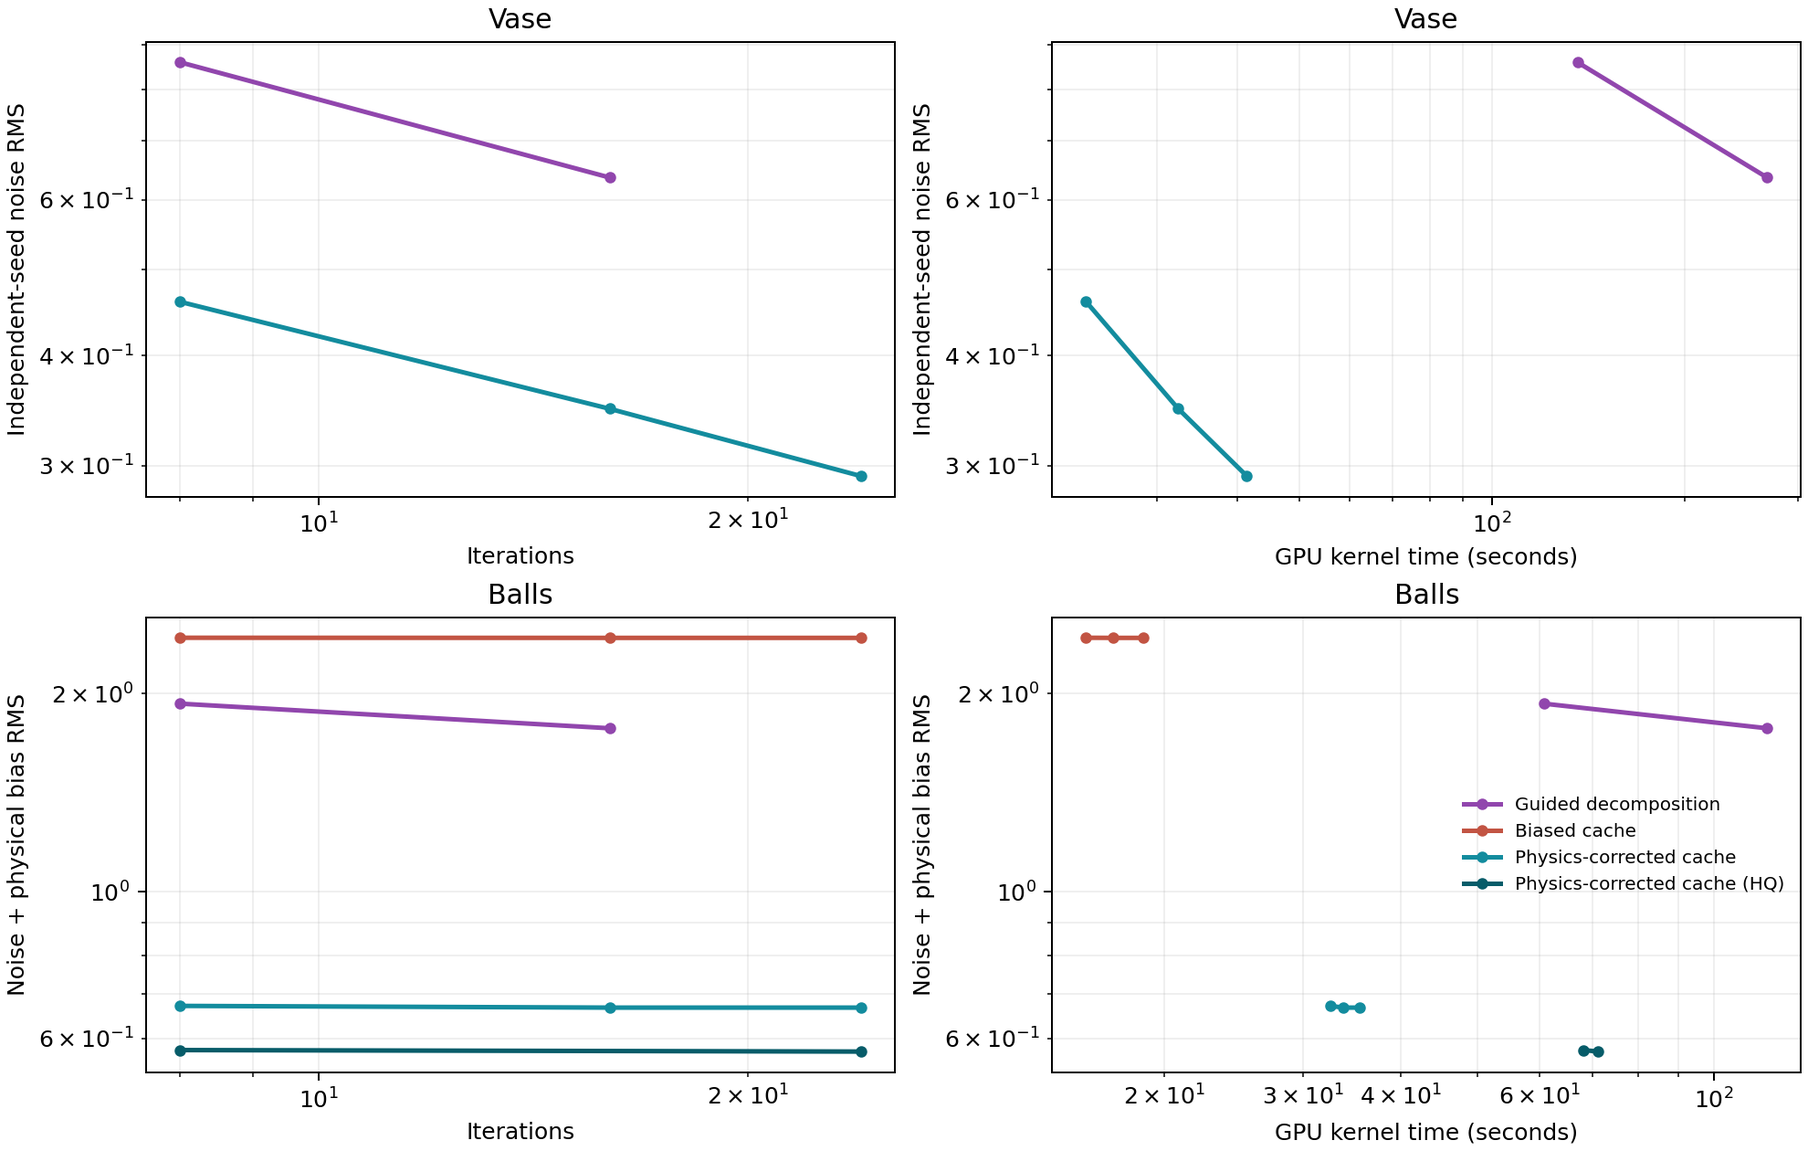
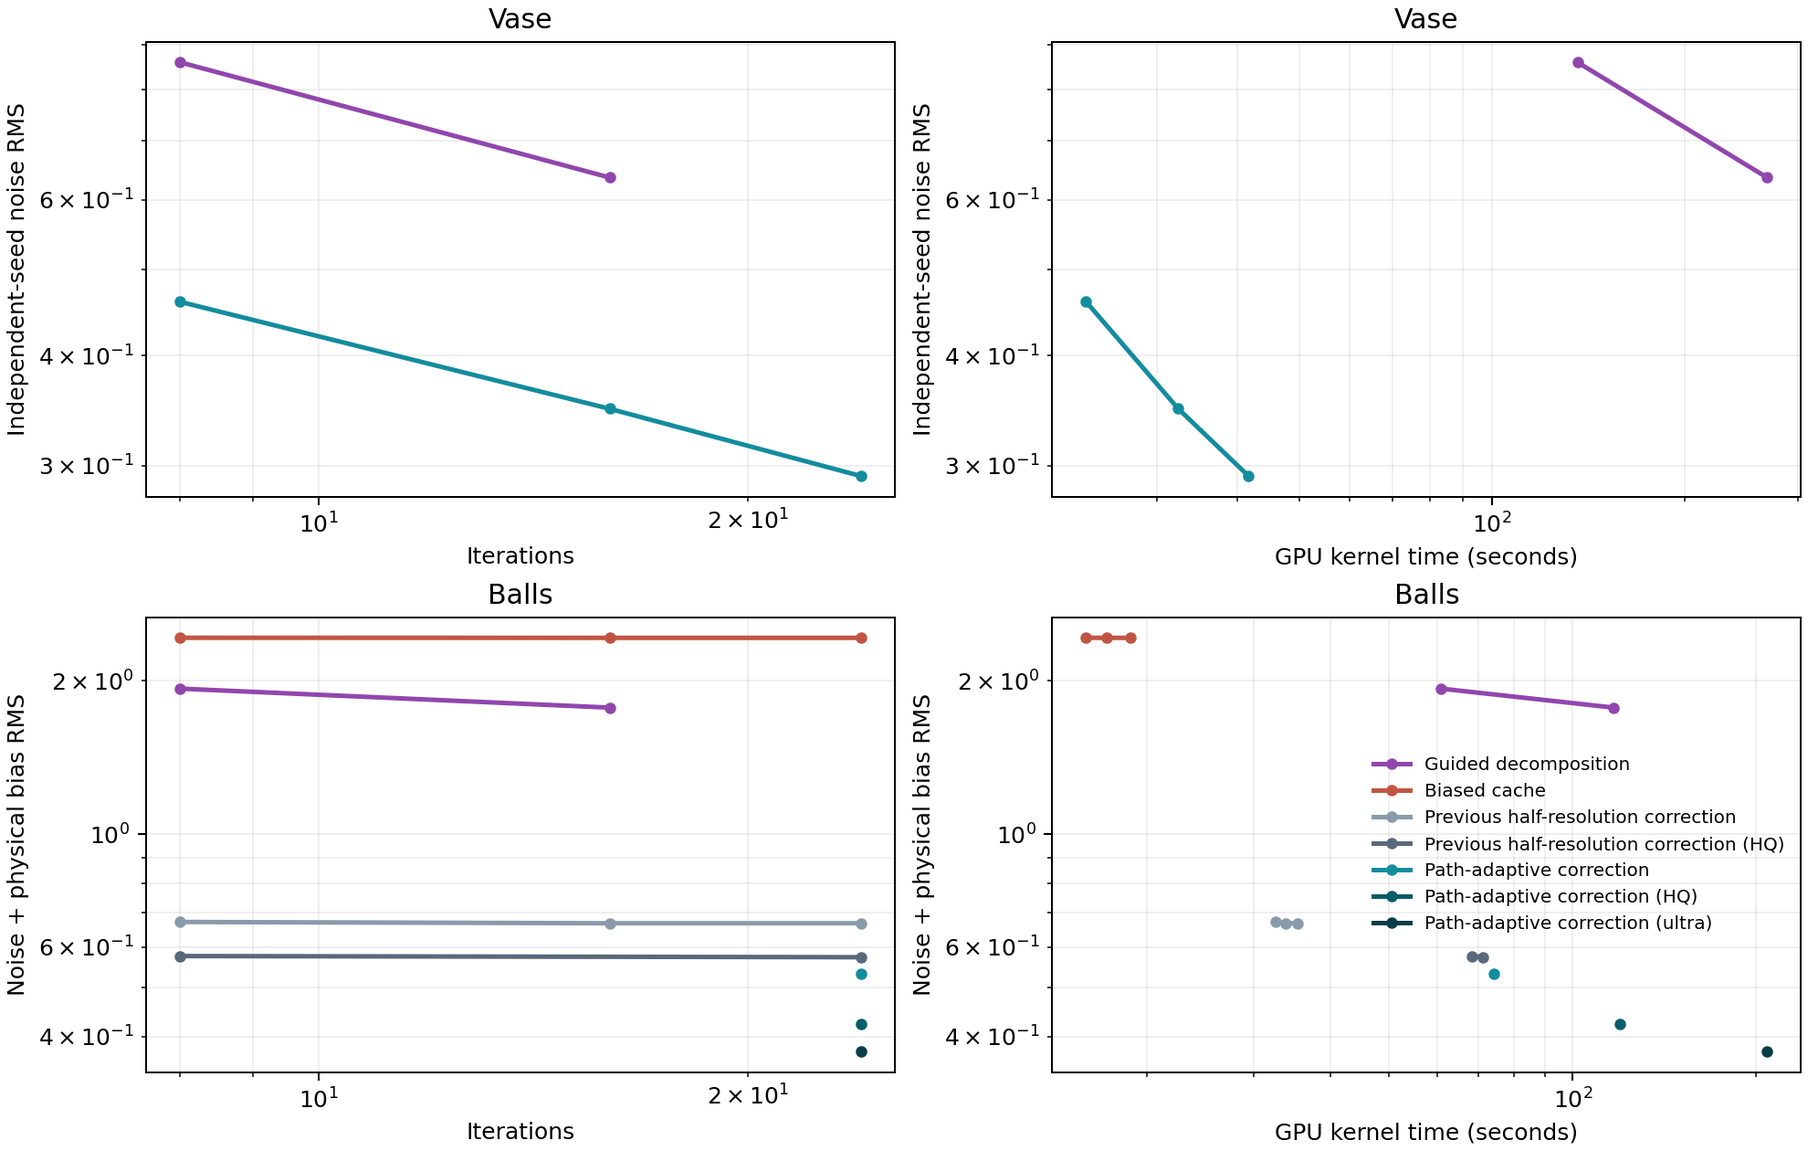
Generalize 4K path-adaptive SPPM bias correction

diff --git a/hw2/sppm/benchmark.py b/hw2/sppm/benchmark.py
@@ -26,7 +26,7 @@ REGIONS = {
 
 def run_job(job, options, directory):
     scene, algorithm, iterations, seed, gpu = job
-    cached = algorithm in ("cache", "cache_hq")
+    cached = algorithm in ("cache", "cache_hq", "cache_ultra")
     label = f"{scene}-{algorithm}-i{iterations:03d}-s{seed}"
     image = directory / f"{label}.ppm"
     command = [str(options.binary), str(options.width), str(options.height), str(image)]
@@ -38,10 +38,11 @@ def run_job(job, options, directory):
             photons = "16" if scene == "vase" else "10" if iterations <= 8 else "8"
         command += [str(iterations), photons, ".5", "1"]
     command += ["--scene", scene, "--nearest", "--seed", str(seed)]
-    if algorithm in ("hybrid", "reuse", "guided", "cache", "cache_hq"):
+    if algorithm in ("hybrid", "reuse", "guided") or cached:
         samples = iterations * 16
         if cached and options.width >= 1920:
-            samples = (576 if algorithm == "cache_hq" else 192) if scene == "balls" else 64
+            samples = ({"cache": 192, "cache_hq": 576, "cache_ultra": 1536}[algorithm]
+                       if scene == "balls" else 64)
         command += ["--hybrid-samples", str(samples), "--reconstruction-radius",
                     "4" if scene == "vase" or cached and options.width >= 1920 else "8"]
     if algorithm == "reuse":
@@ -133,11 +134,15 @@ def plot(summaries, destination):
 
     colors = {"pt": "#d15f4a", "sppm": "#c79a35", "hybrid": "#657bc2", "reuse": "#2b9e77",
               "guided": "#9146ad", "cache_blur": "#c78145", "cache_legacy": "#c25443",
-              "cache": "#138c9e", "cache_hq": "#075c69"}
+              "cache_previous": "#899aab", "cache_previous_hq": "#58697c",
+              "cache": "#138c9e", "cache_hq": "#075c69", "cache_ultra": "#083d47"}
     names = {"pt": "Path tracing", "sppm": "SPPM", "hybrid": "Hybrid SPPM",
              "reuse": "Stratified reuse", "guided": "Guided decomposition",
              "cache_blur": "Previous over-smoothed cache", "cache_legacy": "Biased cache",
-             "cache": "Physics-corrected cache", "cache_hq": "Physics-corrected cache (HQ)"}
+             "cache_previous": "Previous half-resolution correction",
+             "cache_previous_hq": "Previous half-resolution correction (HQ)",
+             "cache": "Path-adaptive correction", "cache_hq": "Path-adaptive correction (HQ)",
+             "cache_ultra": "Path-adaptive correction (ultra)"}
     figure, axes = plt.subplots(2, 2, figsize=(11, 7), constrained_layout=True)
     for row, scene in enumerate(("vase", "balls")):
         metric = "total_error" if any(item["scene"] == scene and "total_error" in item

diff --git a/README.md b/README.md
@@ -43,7 +43,7 @@ OpenMP: 2, GPU: 5
 其他额外效果: 凹凸贴图、体积光等: [5, ?]
 ```
 
-代码基于 smallpt，实现路径追踪（PT）、随机渐进式光子映射（SPPM）、CUDA Hybrid SPPM、分层复用 Hybrid SPPM、低差异 Guided Hybrid SPPM，以及面向原生 4K 的物理纠偏辐照度缓存。原始花瓶场景与原 `balls` 分支的玻璃球场景都在 `master`，通过 `--scene vase` / `--scene balls` 直接切换。旋转 Bezier 曲面、彩色纹理、镜面反射、玻璃折射和光源构图均保留原始设定。课程报告见 [hw2/report.pdf](hw2/report.pdf)。
+代码基于 smallpt，实现路径追踪（PT）、随机渐进式光子映射（SPPM）、CUDA Hybrid SPPM、分层复用 Hybrid SPPM、低差异 Guided Hybrid SPPM，以及面向原生 4K 的路径统计自适应纠偏缓存。原始花瓶场景与原 `balls` 分支的玻璃球场景都在 `master`，通过 `--scene vase` / `--scene balls` 直接切换。旋转 Bezier 曲面、彩色纹理、镜面反射、玻璃折射和光源构图均保留原始设定。课程报告见 [hw2/report.pdf](hw2/report.pdf)。
 
 ### 直接渲染结果
 
@@ -55,7 +55,7 @@ OpenMP: 2, GPU: 5
 
 **Balls：**
 
-![Balls 场景：原生 4K 物理纠偏辐照度缓存直接渲染](docs/render/balls-cache-4k.png)
+![Balls 场景：原生 4K 路径统计自适应纠偏缓存直接渲染](docs/render/balls-cache-4k.png)
 
 ### 新算法：Guided Hybrid SPPM
 
@@ -85,22 +85,25 @@ $$L_o = L_{\mathrm{diffuse,SPPM}} + L_{\mathrm{specular,PT}} + L_{\mathrm{direct
 
 光源是否外露、低差异序列以及 Russian roulette 生存概率都由场景几何和材质自动决定，不识别特定场景名称、固定颜色或贴图文件。constant memory、可见对象 bitmask、把大球近似成平面，以及对玻璃分支强行分层也都做过实测，但分别造成访存串行化、额外同步或方差升高，因此没有放进最终实现。
 
-#### 原生 4K：物理纠偏辐照度缓存
+#### 原生 4K：路径统计自适应纠偏缓存
 
 把原来的 `--guided` 直接从 640×360 提升到 3840×2160 后，16 轮花瓶需要 268.420 s，综合 RMS 仍为 0.636；balls 需要 116.867 s，RMS 为 0.723。瓶颈不是 GPU 光线投射不够快，而是固定世界坐标光子半径和固定每像素光子数同时沿用：像素数增加时，每个光子覆盖的相机可见点也增加，光子汇合成本接近 $N_{\mathrm{photon}}N_{\mathrm{visible}}r^2$，远比像素数增长得更快。
 
-`--cache` 在 Guided Hybrid 的物理传输分解之上增加六个变化：
+`--cache` 在 Guided Hybrid 的物理传输分解之上增加八个变化：
 
 1. **按分辨率控制光子支持域。** 令 $s=\min(1,\sqrt{640\cdot360/(WH)})$，自动使用 $r'=r\max(0.24,s)$、$\rho'=\rho s$，避免高分辨率下对同一世界坐标邻域做二次增长的重复查询。
-2. **把混合 BSDF 明确拆成两个估计量。** 漫反射分支交给 SPPM，并乘以 $1-p_{\mathrm{specular}}$；镜面分支由独立相机路径估计，再乘回 $p_{\mathrm{specular}}$。对于光源被玻璃包裹的焦散场景，大范围缓存必须放在镜面和折射合成之前，合成后只允许跨度不超过 2 像素的局部复用；否则地板倒影和玻璃内部反射会被错误平均成发光特效。
-3. **缓存可复用的辐照度，而不是直接糊 RGB。** 先除掉纹理反照率，再用跨度为 1、2、4、8……像素的几何约束 à-trous 层级复用漫反射照明，最后恢复原像素纹理。物体 ID、法线、世界平面距离、反照率、材质类型和亮度差异共同限制复用；焦散场景提高亮度差异惩罚，有镜面高光的黑色条纹像素直接绕过缓存。
-4. **把可确定部分从随机变量里拿掉。** 针孔相机使用稳定的分层子像素位置，面积光直接连接使用逐像素确定性低差异序列；开启真实光圈时仍保留随机透镜采样。光子和玻璃路径继续使用独立随机种子，不把实际采样方差藏进固定序列。
-5. **按光源可见性分配缓存尺度和采样预算。** 外露面积光场景可以使用更宽的漫反射辐照度 footprint；被玻璃包住的光源自动切换到“先漫反射、后镜面”的保真模式。透明玻璃使用 192–576 个相机路径样本，带条纹遮罩的球体保留原始随机 BSDF，不再套用会改变球面条纹亮度的缓存专用选择器。核心判断来自场景几何、材质和光源遮挡，不依赖 `vase`、`balls` 等场景名称。
-6. **用无偏路径追踪直接纠正缓存造成的低频偏差。** 对被遮挡的多光源场景，另外在半分辨率上运行随机化低差异 PT：漫反射的前两个方向变量使用独立 Cranley–Patterson 旋转，混合 BSDF 保留真实概率和权重。在线性辐亮度空间计算 $P_{l}-\mathcal{D}(C_{h})$，其中 $P_l$ 是粗尺度 PT、$C_h$ 是高分辨率缓存、$\mathcal D$ 是同一物体与法线约束的局部平均；再按物体、法线、平面距离和光照梯度把残差加回高分辨率：
+2. **把混合 BSDF 明确拆成两个估计量。** 漫反射分支交给 SPPM，并乘以 $1-p_{\mathrm{specular}}$；镜面分支由独立相机路径估计，再乘回 $p_{\mathrm{specular}}$。大范围照度缓存尽量放在方向性光路合成之前；方向性分量只允许与实际几何和路径行为相容的近邻复用。
+3. **缓存可复用的辐照度，而不是直接糊 RGB。** 先除掉纹理反照率，再用跨度为 1、2、4、8……像素的几何约束 à-trous 层级复用漫反射照明，最后恢复原像素纹理。物体 ID、法线、世界平面距离、反照率和实际辐亮度差异共同限制复用，不根据固定 RGB 值判断像素是不是高光。
+4. **根据实际光路判断是否值得复用。** 每个像素先用独立 pilot 测量路径亮度、方差以及镜面/折射事件的出现频率。稳定、方向性弱的像素直接保留本像素结果；稀有方向事件多、采样方差大的像素才进行受几何约束的复用。阈值从 0.05 扫到 0.50 时 4K 结果保持一致，不依赖场景名、球的位置、贴图文件或预设颜色。
+5. **pilot 只决定预算，不参与最终估计。** 最终镜面和折射颜色重新使用一批独立路径计算，避免“先看 pilot 决定停止，再把同一批 pilot 拿来平均”的 optional-stopping 偏差。带贴图遮罩的材质和普通玻璃共享用户指定的 `--hybrid-samples`，不再存在偷偷的 64-sample 上限。
+6. **在原生像素分辨率纠正缓存偏差。** 当 `--hybrid-samples >= 128` 时，每个漫反射像素单独生成随机化低差异 PT 样本，在同一个原生 4K 像素位置计算线性辐亮度残差 $P_h-C_h$；再根据几何、法线、平面距离和实际辐亮度差异复用相容残差：
 
-$$\hat L_h=C_h+\mathcal U_{\mathrm{geometry}}\!\left[P_l-\mathcal D(C_h)\right].$$
+$$\hat L_h=C_h+\mathcal U_{\mathrm{compatible}}\!\left[P_h-C_h\right].$$
 
-平坦背景和地面共享更大邻域，真正的焦散、倒影边界和玻璃轮廓则自动缩小邻域；镜面和折射高频仍保留原生 4K 结果。这里的 PT 控制变量是无偏的，但有限空间重建仍有偏差，所以最终图像不能宣称“逐像素无偏”。花瓶的外露光源不触发额外纠偏，原有渲染结果不变。
+这里不再假定半分辨率残差能够代表 4K 细焦散，也不根据光源是否被包裹决定是否纠偏；只由用户显式提供的采样预算决定是否启用这项额外计算。
+
+7. **不连续像素回退到自己的无偏光路。** 物体轮廓、法线/材质边界和贴图反照率跳变由实际相邻像素检测；这些位置不使用邻居的辐亮度，而是用原生分辨率、随机化低差异子像素和 BSDF 样本重新追踪自己的完整路径，避免彩条、玻璃边缘和镜面轮廓出现光晕。
+8. **显式承认仍然存在的偏差。** 单条 PT 光路及 PDF 补偿是无偏的，但有限光子半径和有限邻域复用仍然是偏差—方差折中，最终图像不能宣称“逐像素无偏”。因此每次改动都同时报告跨 seed 噪声和相对于同场景高采样 PT 的系统性偏差。
 
 辐照度空间复用是明确的**有偏降方差**：只看独立 seed 之间的 RMS，会把“每次都稳定地算错”误判成低噪声。下面同时报告随机噪声 $\sigma$、与八个独立无偏 PT 结果在线性空间平均得到的 4K 参考图之间的低频偏差 $b$，以及 $\sqrt{\sigma^2+b^2}$；焦散区域另外单独测量。所有参考对照使用相同场景、相机、材质和原始曝光。
 
@@ -112,15 +115,15 @@ $$\hat L_h=C_h+\mathcal U_{\mathrm{geometry}}\!\left[P_l-\mathcal D(C_h)\right].
 | 花瓶 | Guided Hybrid | 16 | 2 | 268.420 s | 0.636 | — | — |
 | 花瓶 | 辐照度缓存 | 8 | 4 | 23.269 s | 0.460 | — | — |
 | 花瓶 | 辐照度缓存 | 16 | 4 | 32.389 s | 0.348 | — | — |
-| 花瓶 | **辐照度缓存** | **24** | **4** | **41.438 s** | **0.292** | — | — |
+| 花瓶 | **路径自适应缓存** | **24** | **4** | **41.697 s** | **0.292** | — | — |
 | Balls | Guided Hybrid | 8 | 2 | 60.778 s | 0.976 | 1.665 | 1.930 |
 | Balls | Guided Hybrid | 16 | 2 | 116.867 s | 0.723 | 1.617 | 1.771 |
 | Balls | 旧缓存：焦散失真 | 24 | 4 | 18.804 s | 0.274 | **2.412** | **2.428** |
-| Balls | 物理纠偏缓存 | 8 | 4 | 32.489 s | 0.438 | 0.509 | 0.672 |
-| Balls | 物理纠偏缓存 | 16 | 4 | 33.786 s | 0.432 | 0.510 | 0.668 |
-| Balls | 物理纠偏缓存 | 24 | 4 | 35.399 s | 0.430 | 0.511 | 0.668 |
-| Balls | 物理纠偏缓存 HQ | 8 | 4 | 68.310 s | 0.303 | 0.490 | 0.576 |
-| Balls | **物理纠偏缓存 HQ** | **24** | **4** | **71.154 s** | **0.293** | **0.492** | **0.573** |
+| Balls | 上一代半分辨率纠偏 | 24 | 4 | 35.399 s | 0.430 | 0.511 | 0.668 |
+| Balls | 上一代半分辨率纠偏 HQ | 24 | 4 | 71.154 s | 0.293 | 0.492 | 0.573 |
+| Balls | **路径自适应缓存** | **24** | **4** | **74.196 s** | **0.460** | **0.265** | **0.531** |
+| Balls | **路径自适应缓存 HQ** | **24** | **4** | **119.768 s** | **0.350** | **0.240** | **0.424** |
+| Balls | **路径自适应缓存 Ultra** | **24** | **4** | **208.575 s** | **0.292** | **0.234** | **0.374** |
 
 旧缓存的 0.274 只是“每次都画出同样的错误”，真实参考偏差高达 2.412；下面按同一张无偏 PT 参考图检查焦散、倒影、玻璃和条纹，而不是只看图像是否稳定：
 
@@ -128,12 +131,15 @@ $$\hat L_h=C_h+\mathcal U_{\mathrm{geometry}}\!\left[P_l-\mathcal D(C_h)\right].
 | --- | ---: | ---: | ---: | ---: | ---: | ---: |
 | Guided Hybrid，16 轮 | 1.617 | 4.306 | 1.403 | 0.855 | 0.297 | 37.91 |
 | 旧缓存，24 轮 | 2.412 | 5.758 | 4.189 | 0.964 | 3.149 | 37.93 |
-| 物理纠偏缓存，24 轮 | 0.511 | 1.222 | 0.747 | 0.364 | 0.962 | 37.96 |
-| **物理纠偏缓存 HQ，24 轮** | **0.492** | **1.220** | **0.742** | **0.276** | **0.961** | **37.94** |
+| 上一代半分辨率纠偏，24 轮 | 0.511 | 1.222 | 0.747 | 0.364 | 0.962 | 37.96 |
+| 上一代半分辨率纠偏 HQ，24 轮 | 0.492 | 1.220 | 0.742 | 0.276 | 0.961 | 37.94 |
+| **路径自适应缓存，24 轮** | **0.265** | **0.364** | **0.225** | **0.348** | **0.374** | **38.35** |
+| **路径自适应缓存 HQ，24 轮** | **0.240** | **0.353** | **0.211** | **0.241** | **0.382** | **38.30** |
+| **路径自适应缓存 Ultra，24 轮** | **0.234** | **0.346** | **0.209** | **0.230** | **0.385** | **38.29** |
 
-![无偏 PT 参考、旧缓存伪影与物理纠偏缓存的同一区域直接对照](docs/render/balls-fidelity-comparison.png)
+![无偏 PT 参考、上一代半分辨率缓存与路径统计自适应缓存的同一区域直接对照](docs/render/balls-fidelity-comparison.png)
 
-HQ 档的 balls 背景 / 地板 / 倒影 / 玻璃 / 条纹 RMS 分别为 **0.212 / 0.233 / 0.266 / 0.472 / 0.190**。相对于旧缓存，整图系统性偏差降低 **4.90×**、小球焦散偏差降低 **4.72×**，综合误差降低 **4.24×**；相对于 16 轮 Guided Hybrid，HQ 更快 **1.64×**，标准档更快 **3.30×**，同时两档的物理偏差都更小。花瓶保持逐字节一致，24 轮仍为 **41.438 s / RMS 0.292**。完整逐区域亮度、边缘、噪声与参考偏差见 [docs/render/convergence-4k.csv](docs/render/convergence-4k.csv)。
+Ultra 档的 balls 背景 / 地板 / 倒影 / 玻璃 / 条纹随机噪声 RMS 分别为 **0.296 / 0.305 / 0.295 / 0.392 / 0.066**，整图随机噪声 **0.292**、系统性偏差 **0.234**；页面顶部展示这一档的单次直接渲染。相对于上一代 HQ，小球焦散偏差降低 **3.53×**，地板倒影降低 **3.55×**，彩条降低 **2.50×**，综合误差从 **0.573 降到 0.374**；代价是 4K GPU 时间从 71.154 s 增加到 208.575 s。更快的标准档仍比 16 轮 Guided Hybrid 快 **1.58×**，并把综合误差从 **1.771 降到 0.531**。花瓶保持 **41.697 s / RMS 0.292**。完整逐区域亮度、边缘、噪声与参考偏差见 [docs/render/convergence-4k.csv](docs/render/convergence-4k.csv)。
 
 ![原生 4K 花瓶随机噪声，以及 balls 同时计算随机噪声和物理偏差的收敛曲线](docs/render/convergence-4k.png)
 
@@ -274,7 +280,7 @@ nvcc -O3 -arch=sm_90 -std=c++17 cuda.cu -o render-cuda
 ./render-cuda 640 360 balls-pt.ppm 32 --scene balls
 ```
 
-5. 使用同一个二进制渲染普通 SPPM、Guided Hybrid，或最新的原生 4K 物理纠偏缓存：
+5. 使用同一个二进制渲染普通 SPPM、Guided Hybrid，或最新的原生 4K 路径统计自适应缓存：
 
 ```bash
 # 花瓶：普通 SPPM
@@ -296,7 +302,7 @@ nvcc -O3 -arch=sm_90 -std=c++17 cuda.cu -o render-cuda
   --scene vase --nearest --shadow-samples 3 \
   --hybrid-samples 64 --reconstruction-radius 4 --cache
 
-# 原生 4K Balls：24 轮；半分辨率无偏 PT 自动校正焦散和间接光
+# 原生 4K Balls：24 轮；原生分辨率 PT 自动校正焦散和间接光
 ./render-cuda 3840 2160 balls-cache-4k.ppm 24 8 .5 1 \
   --scene balls --nearest --hybrid-samples 192 \
   --reconstruction-radius 4 --cache
@@ -306,9 +312,14 @@ nvcc -O3 -arch=sm_90 -std=c++17 cuda.cu -o render-cuda
   --scene balls --nearest --hybrid-samples 192 \
   --reconstruction-radius 4 --cache
 
-# 原生 4K Balls HQ：更多玻璃与无偏 PT 样本；README 展示这一档
+# 原生 4K Balls HQ：增加玻璃和无偏 PT 样本
 ./render-cuda 3840 2160 balls-cache-hq-4k.ppm 24 8 .5 1 \
   --scene balls --nearest --hybrid-samples 576 \
+  --reconstruction-radius 4 --cache
+
+# 原生 4K Balls Ultra：README 展示这一档；随机 RMS 0.292、参考偏差 0.234
+./render-cuda 3840 2160 balls-cache-ultra-4k.ppm 24 8 .5 1 \
+  --scene balls --nearest --hybrid-samples 1536 \
   --reconstruction-radius 4 --cache
 
 # 8K 花瓶；高分辨率下相应缩小光子汇合半径
@@ -317,7 +328,7 @@ nvcc -O3 -arch=sm_90 -std=c++17 cuda.cu -o render-cuda
   --reconstruction-radius 6 --guided
 ```
 
-前四个位置参数表示 `宽度 高度 输出文件 每子像素采样数`，对应 PT；再提供 `每像素光子数 初始半径 alpha` 就切换到 SPPM。`--reuse` 打开分层复用，`--guided` 增加直接光分解和低差异发光，`--cache` 进一步开启分辨率自适应辐照度缓存；都不加则保留原来的 Hybrid SPPM。CUDA SPPM 只输出最终结果。多卡机器用 `CUDA_VISIBLE_DEVICES=0` 指定 GPU。
+前四个位置参数表示 `宽度 高度 输出文件 每子像素采样数`，对应 PT；再提供 `每像素光子数 初始半径 alpha` 就切换到 SPPM。`--reuse` 打开分层复用，`--guided` 增加直接光分解和低差异发光，`--cache` 进一步开启路径统计自适应缓存；当宽度至少 1280 且 `--hybrid-samples >= 128` 时，对任意场景启用原生分辨率控制变量和无偏边界重采样。都不加则保留原来的 Hybrid SPPM。CUDA SPPM 只输出最终结果。多卡机器用 `CUDA_VISIBLE_DEVICES=0` 指定 GPU。
 
 6. 可选：无损转换成网页可直接显示的 PNG：
 
@@ -342,7 +353,7 @@ python3 benchmark.py --binary ./render-cuda --algorithms cache \
   --gpus 0,1,2,3,4,5,6,7 --output /tmp/sppm-4k-cache
 
 # 同时测量随机噪声和相对于同场景高采样 PT 图的系统性偏差
-python3 benchmark.py --binary ./render-cuda --algorithms cache,cache_hq \
+python3 benchmark.py --binary ./render-cuda --algorithms cache,cache_hq,cache_ultra \
   --iterations 24 --seeds 0,1,2,3 --width 3840 --height 2160 \
   --reference balls=/path/to/converged-balls-pt.png --gpus 0,1,2,3
 
@@ -360,7 +371,7 @@ python3 benchmark.py --binary ./render-cuda \
 | 场景 | `--scene vase` / `--scene balls` | 同时切换场景、光源和默认相机 |
 | 分层复用 | `--reuse` | 光源与材质分层、菲涅耳重要性采样、几何约束复用和 9-cell 平面光子查询 |
 | 传输引导 | `--guided` | 包含 `--reuse`，另加直接光 NEE 分解、四维低差异光子发射和无偏路径终止 |
-| 物理纠偏辐照度缓存 | `--cache` | 包含 `--guided`，另加自适应光子支持域、几何约束辐照度复用和低差异 PT 控制变量 |
+| 路径统计自适应缓存 | `--cache` | 包含 `--guided`，另加路径事件统计、原生分辨率 PT 控制变量和无偏边界重采样 |
 | 镜面分层 | `--hybrid-samples 2048` | 独立采样稀有镜面和折射，保留真实 BSDF 权重 |
 | 引导重建 | `--reconstruction-radius 4` | 根据物体、法线、反照率、深度和局部方差压低随机噪声 |
 | 独立随机序列 | `--seed 7` | 让相机、光子和材质采样可复现 |
